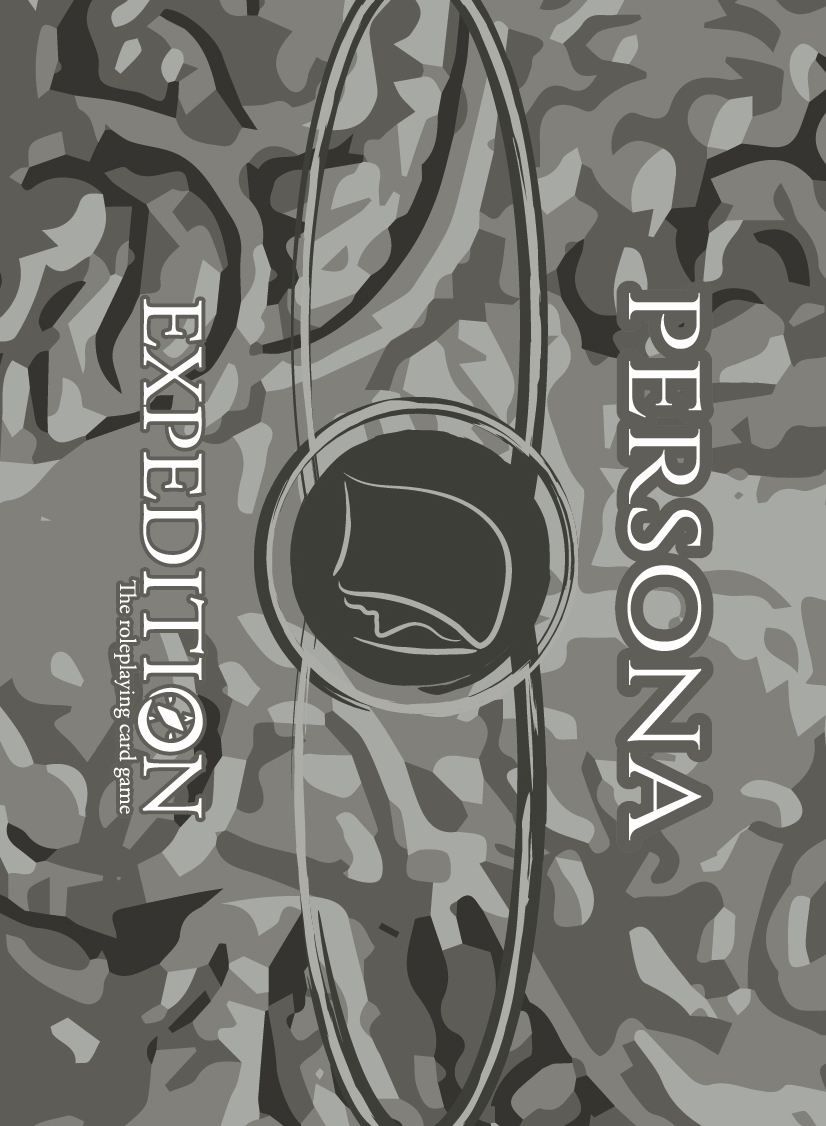
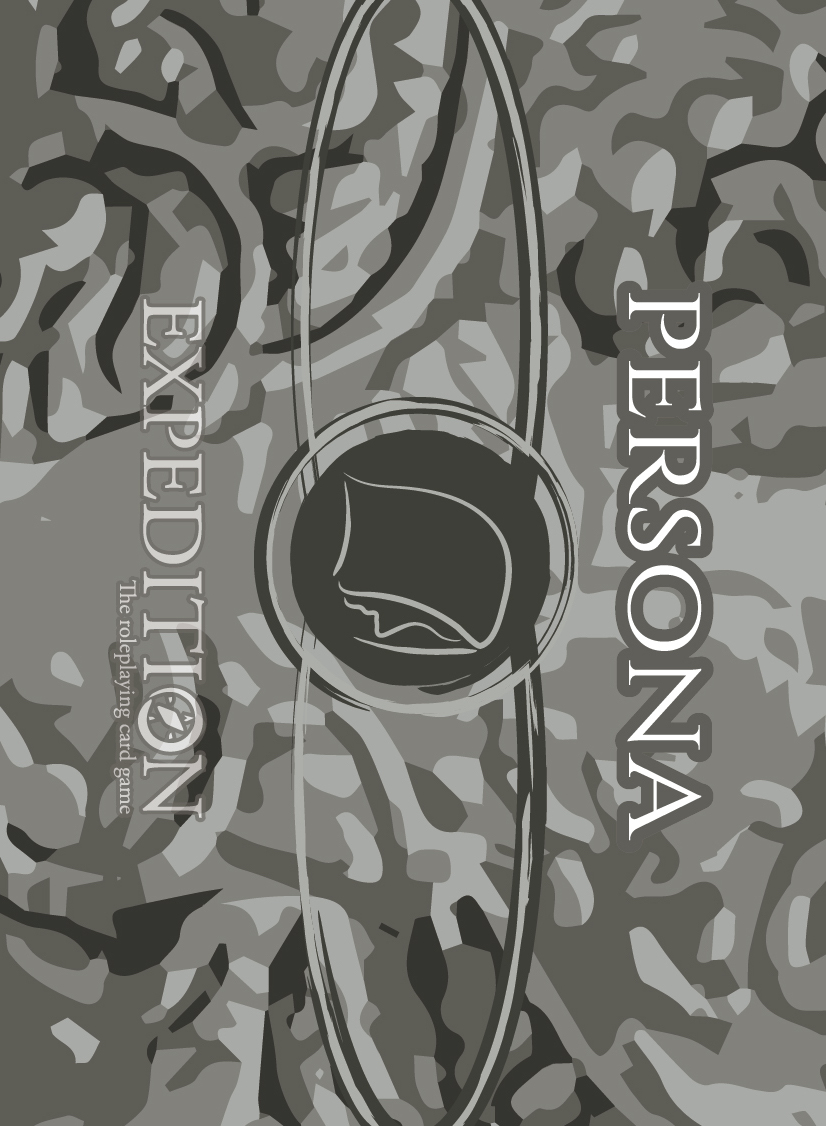
add/improve future card styles

Changed region(s): [[0.1211, 0.2487, 0.2724, 0.746], [0.1211, 0.6838, 0.1513, 0.7149]]

diff --git a/services/cards/src/themes/Color/cards.scss b/services/cards/src/themes/Color/cards.scss
@@ -639,6 +639,9 @@ $large-icon-width: 0.195in;
     &.title-Horror:before {
       background-image: url(../../../../shared/images/cards/back-TitleCardHorror.jpg) !important;
     }
+    &.title-Future:before {
+      background-image: url(../../../../shared/images/cards/back-TitleCardFuture.jpg) !important;
+    }
   }
 
   .card.front.-Title {
@@ -654,6 +657,9 @@ $large-icon-width: 0.195in;
     }
     &.title-Horror:before {
       background-image: url(../../../../shared/images/cards/front-TitleCardHorror.jpg) !important;
+    }
+    &.title-Future:before {
+      background-image: url(../../../../shared/images/cards/front-TitleCardFuture.jpg) !important;
     }
   }
 

diff --git a/services/cards/src/themes/BlackAndWhite/cards.scss b/services/cards/src/themes/BlackAndWhite/cards.scss
@@ -648,12 +648,6 @@ $text-color-white: #fff;
         bottom: 0.09in;
       }
     }
-
-    &.Persona {
-      h1 {
-        top: 0.95in;
-      }
-    }
   }
 
 

diff --git a/shared/images/README.md b/shared/images/README.md
@@ -24,10 +24,6 @@ Precision can generally set be pretty low (ie 2/10) unless it makes it look terr
 
 **IMPORTANT:** Make sure to preserve the **viewBox** setting.
 
-## Generating UPCs
-
-Once you have the GTIN-12 / UPC-A from GS1US Data Hub, you can plug it into an SVG barcode generator like https://codepen.io/FesslerForge/pen/jHkaC
-
 ## Icons Available
 
 At this time, you can use the following Expedition-themed icons:

diff --git a/shared/images/cards/README.md b/shared/images/cards/README.md
@@ -1,0 +1,7 @@
+## Generating card backs
+
+Start with the AI file, export as... JPG, use artboard, color model = RGB, embed ICC profile, rotate after export.
+
+## Generating UPCs
+
+Once you have the GTIN-12 / UPC-A from GS1US Data Hub, you can plug it into an SVG barcode generator like https://codepen.io/FesslerForge/pen/jHkaC
